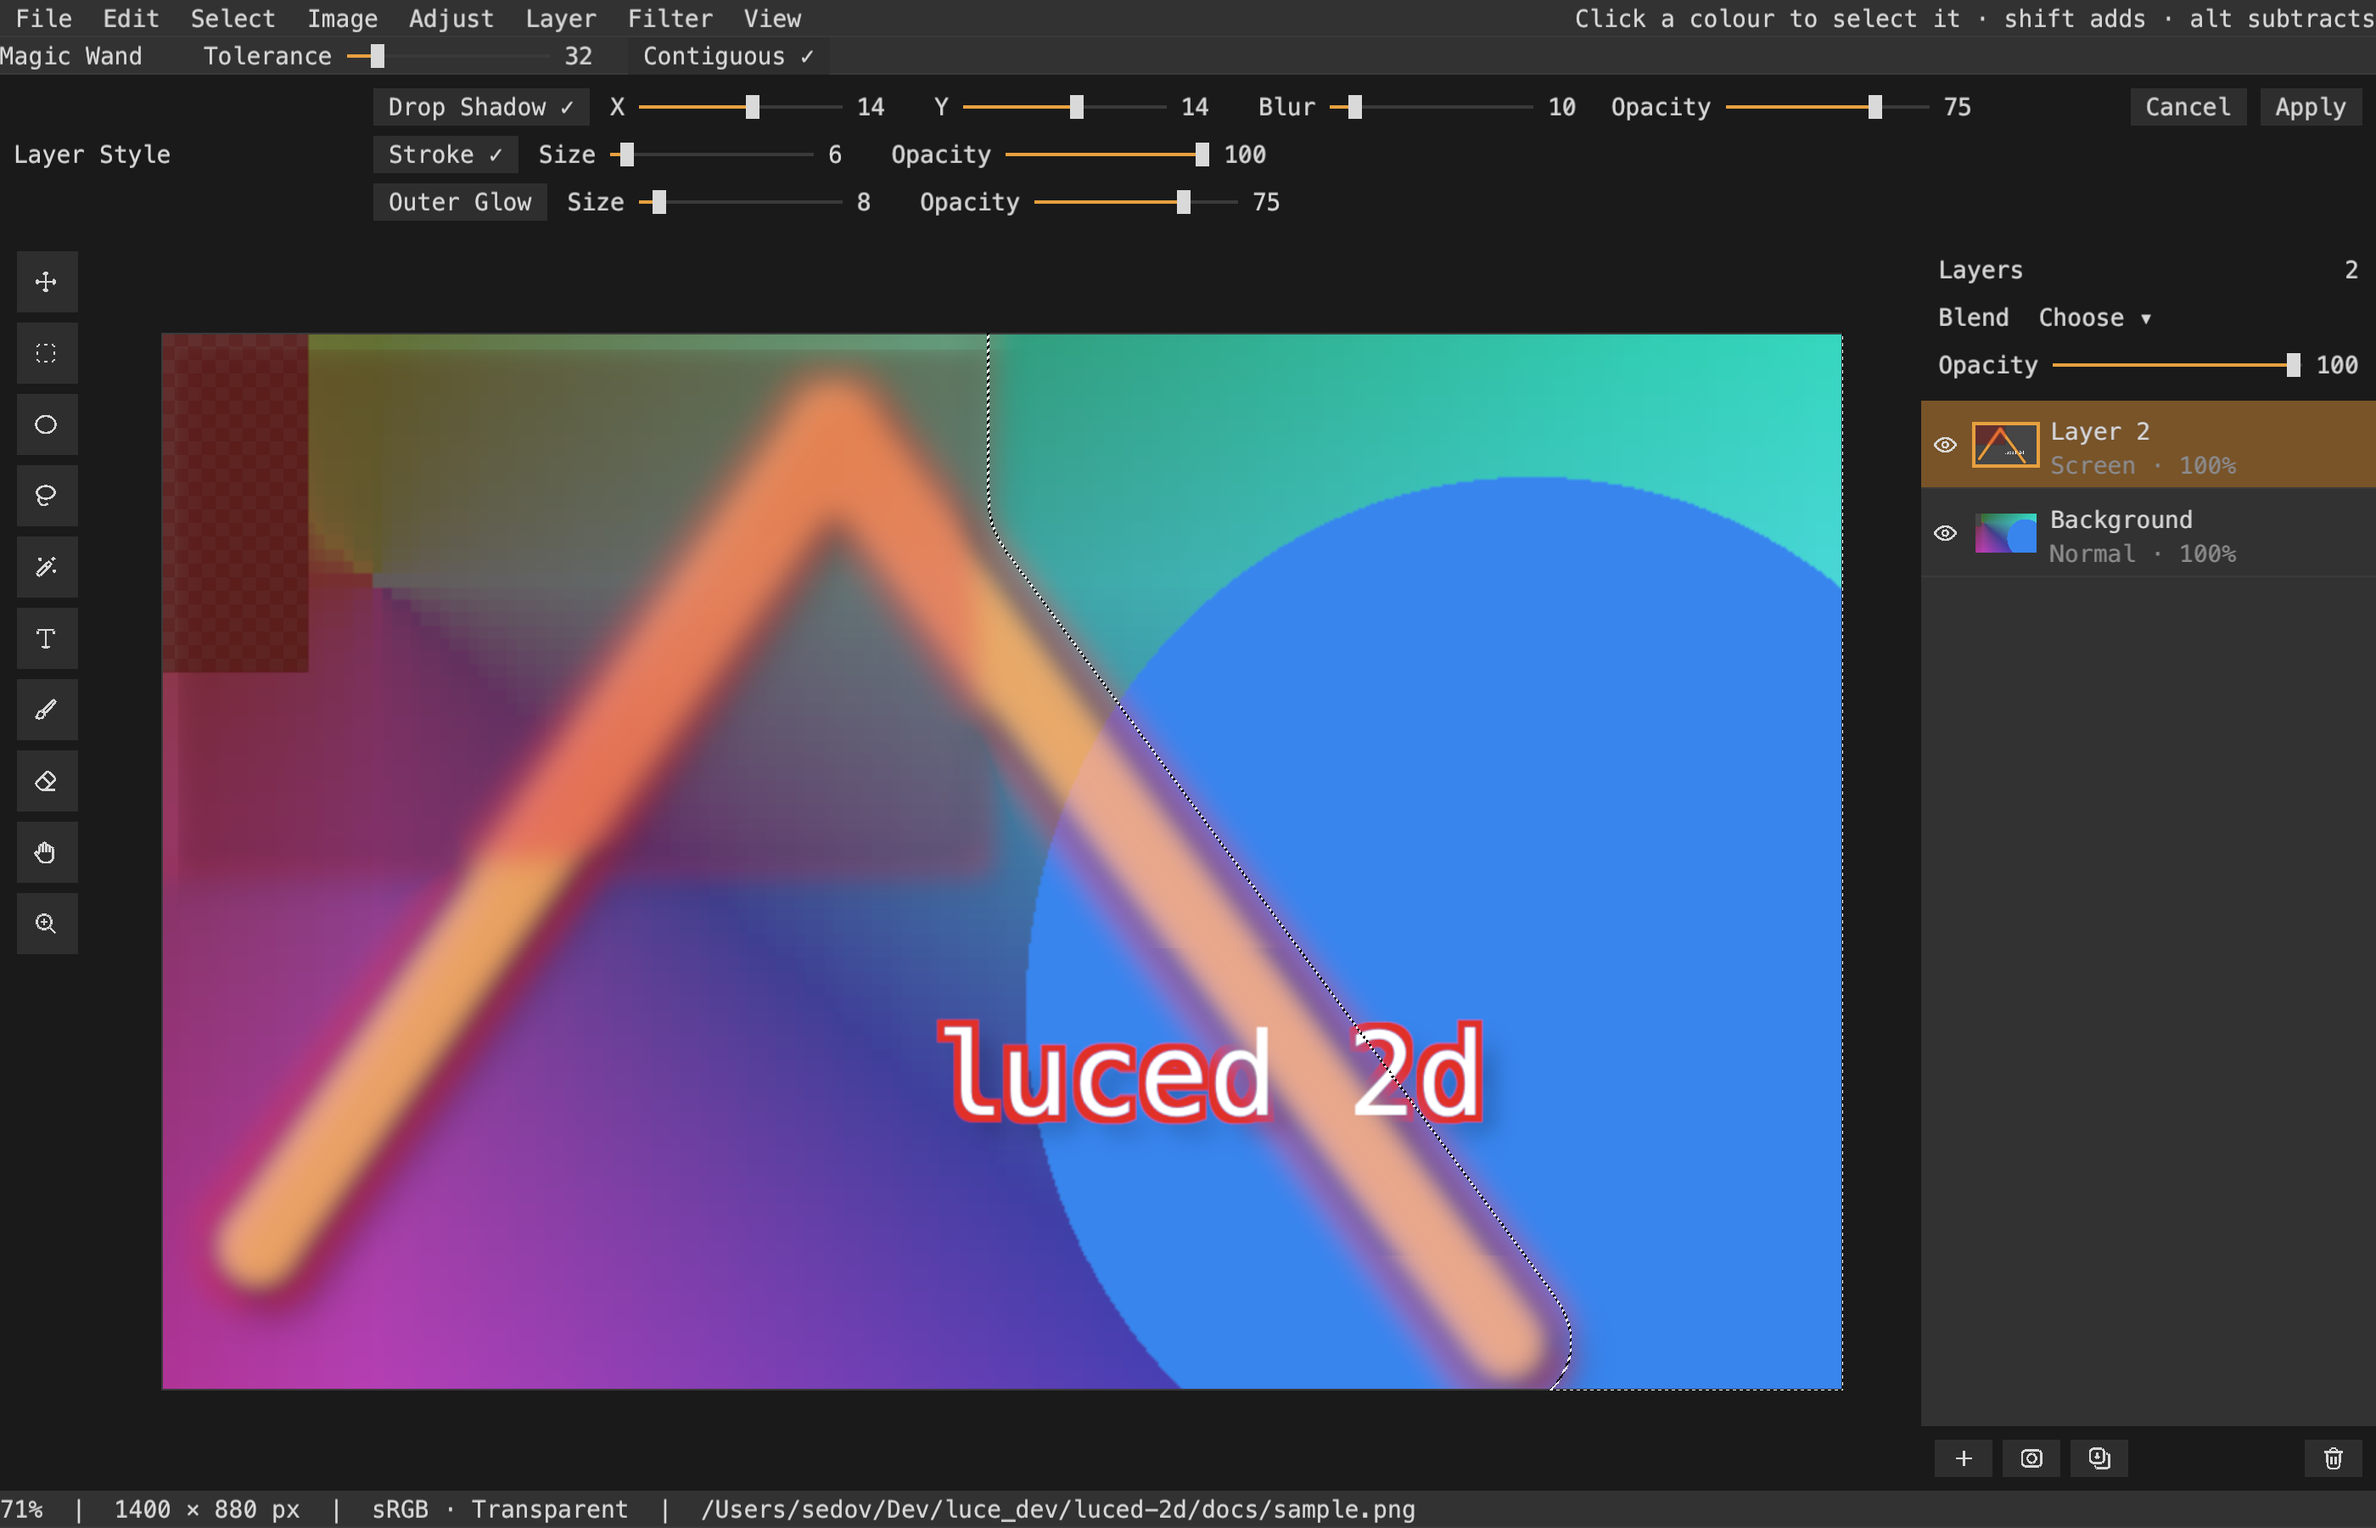
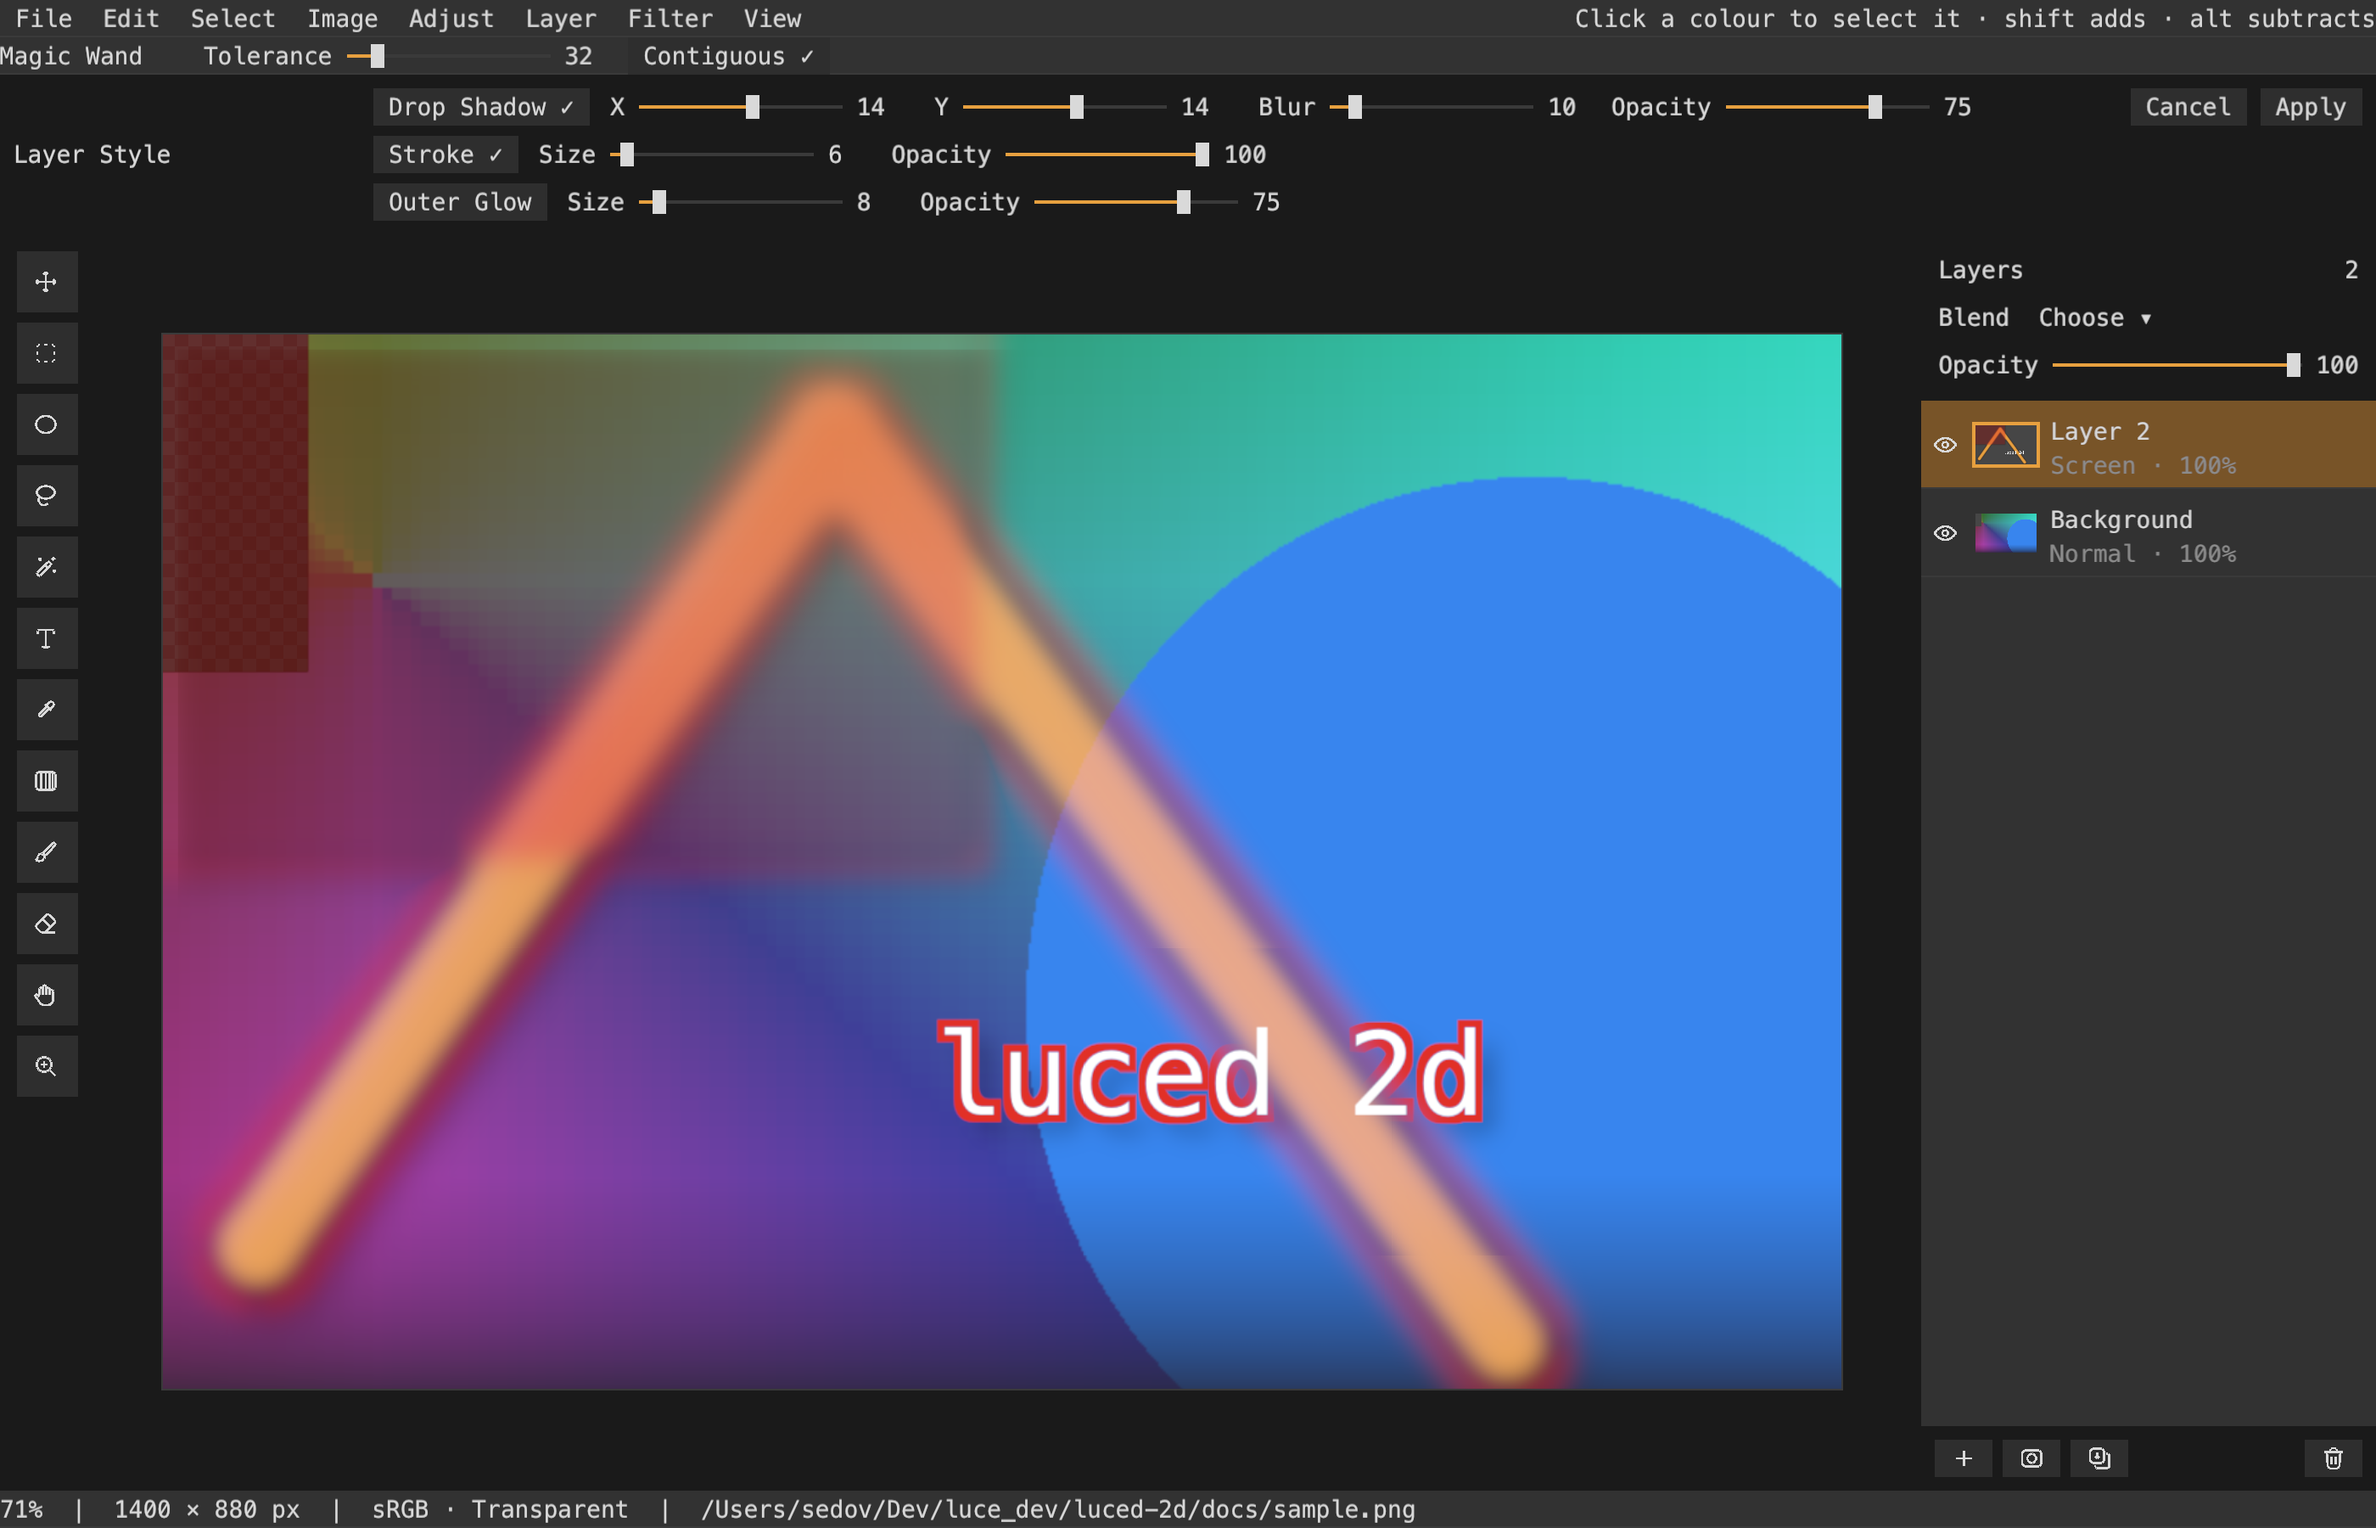
Gradient tool (G): foreground to transparent across the selection
Claude-Session: https://claude.ai/code/session_01KSvf935cywg8wGYHPcyZf9

Changed region(s): [[0.0621, 0.7778, 0.7768, 0.9333]]

diff --git a/tools/preview.py b/tools/preview.py
@@ -114,6 +114,14 @@ pub func main(arguments: list[str]) -> int!:
             editor.workspace.text_y = 560.0
             editor.workspace.draw_text("luced 2d")
             editor.workspace.set_color(0.75, 0.03, 0.02)
+            editor.workspace.select(0)
+            editor.workspace.canvas.select_rectangle(0, 700, 1400, 180, 0)
+            editor.workspace.set_color(0.02, 0.02, 0.03)
+            editor.workspace.opacity = 0.9
+            editor.workspace.fill_gradient(700.0, 880.0, 700.0, 700.0)
+            editor.workspace.deselect()
+            editor.workspace.select(1)
+            editor.workspace.set_color(0.75, 0.03, 0.02)
             editor.panels.layer_style()
             editor.panels.toggle_style(0)
             editor.panels.adjust_sliders[10][0].set_value(14.0)

diff --git a/README.md b/README.md
@@ -28,6 +28,8 @@ the order of work are in [docs/DESIGN.md](docs/DESIGN.md).
   shift adds and alt subtracts, Select › All, Deselect, Inverse,
   Expand, Contract and Feather (cmd-A, cmd-D, cmd-shift-I); marching ants;
   painting and fills stay inside; Fill (alt-Delete) and Clear (Delete).
+- Gradient tool (`G`): drag to lay the foreground colour fading to transparent
+  across the selection, at the brush opacity.
 - Eyedropper (`I`): click to pick the flattened colour as the foreground.
 - Text tool (`T`): click, type, and the text is set into the layer's pixels
   in the foreground colour at the chosen size.
